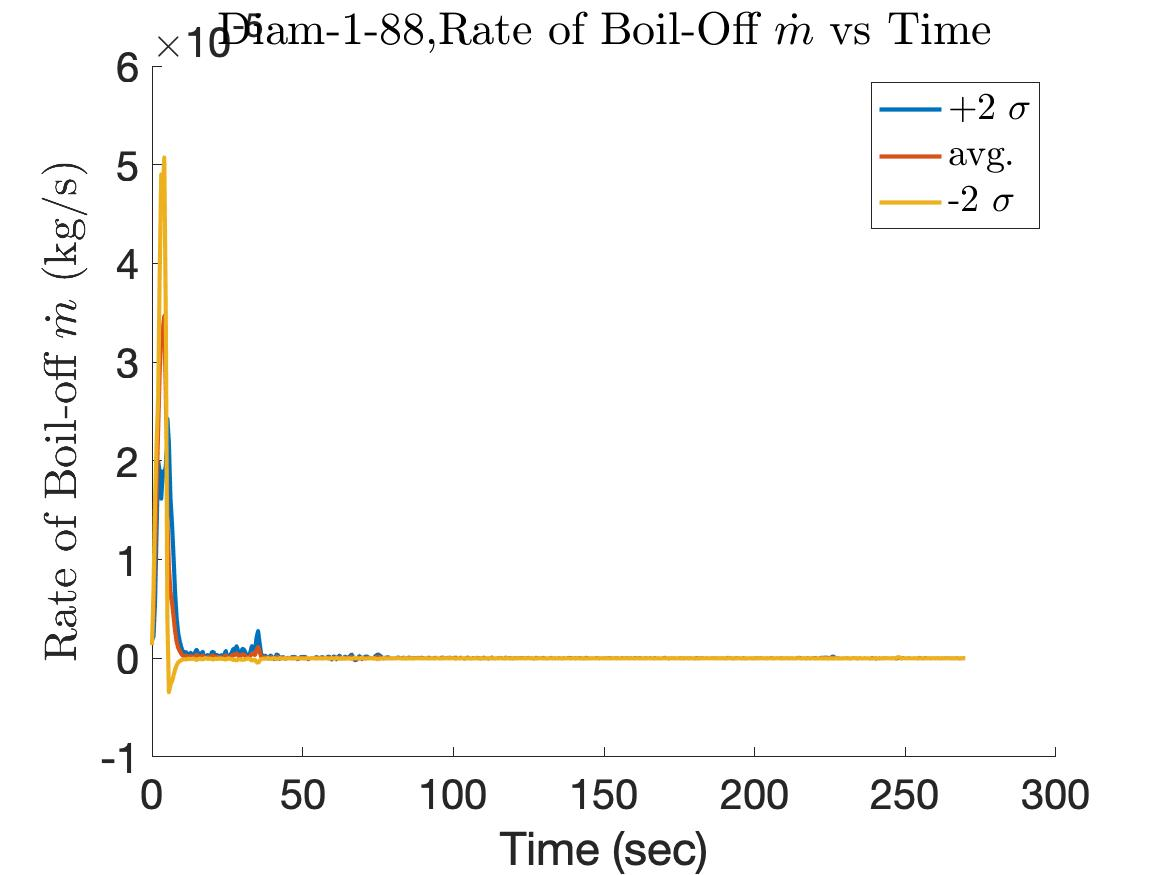
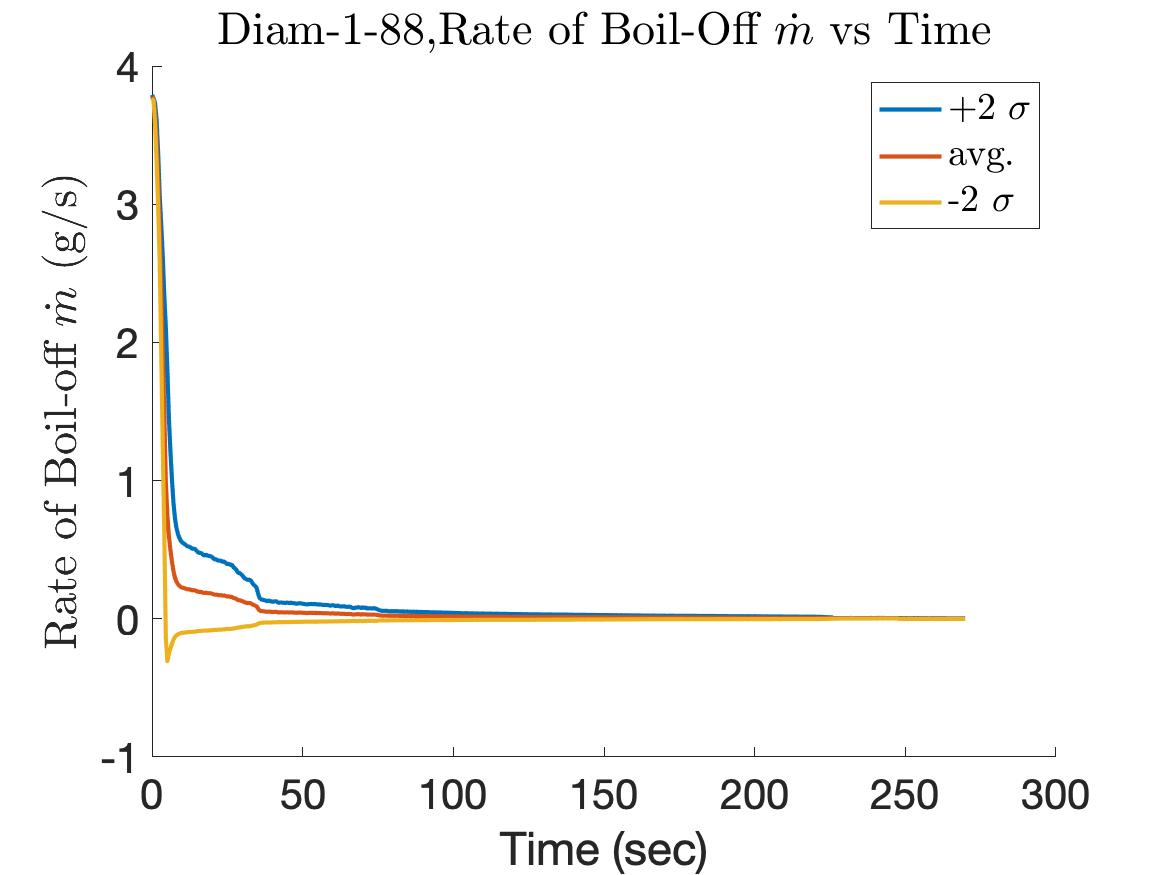
update qdot and mdot plots

Changed region(s): [[0.0308, 0.1234, 0.8329, 0.8023], [0.1234, 0.0309, 0.2159, 0.0617], [0.0925, 0.0617, 0.1234, 0.0926]]

diff --git a/DataAnalysis.m b/DataAnalysis.m
@@ -316,6 +316,8 @@ dt = 0.510204075;
 r = flip([2, 1.875, 1.75, 1.625, 1.5, 1.375]/2,2);
 m = get_spheremass(r);
 Cp = 452; % J/kg C
+
+h = 500;
 for i = 1:6
     Cpm = Cp*m(i);
     tvec = TCell{1,i};
@@ -335,37 +337,55 @@ for i = 1:6
     end
     
     % Average of the three surface Q values:
-    Qavg = sum(TSurf,2)/3*Cpm;
-    Qsigma = std(Qavg); % standard deviation of Q
-    Q1s = sum(T1s,2)/3*Cpm;
-    Q2s = sum(T2s,2)/3*Cpm;
-    Qm1s = sum(Tm1s,2)/3*Cpm;
-    Qm2s = sum(Tm2s,2)/3*Cpm;
+%     Qavg = sum(TSurf,2)/3*Cpm;
+%     Qsigma = std(Qavg); % standard deviation of Q
+%     Q1s = sum(T1s,2)/3*Cpm;
+%     Q2s = sum(T2s,2)/3*Cpm;
+%     Qm1s = sum(Tm1s,2)/3*Cpm;
+%     Qm2s = sum(Tm2s,2)/3*Cpm;
 
-    QCell{1,i} = tvec;
-    QCell{2,i} = Qavg;
-    QCell{3,i} = Qsigma;
-    QCell{4,i} = Q1s;
-    QCell{5,i} = Q2s;
-    QCell{6,i} = Qm1s;
-    QCell{7,i} = Qm2s;
+    if i ~= 5
+        numc = 3;
+    elseif i == 5
+        numc = 2;
+    end
+    
+    Qavg = h*get_SA(r(i))*(sum(TSurf,2)/numc +194);
+    Q1s = h*get_SA(r(i))*(sum(T1s,2)/numc +194);
+    Q2s = h*get_SA(r(i))*(sum(T2s,2)/numc +194);
+    Qm1s = h*get_SA(r(i))*(sum(Tm1s,2)/numc +194);
+    Qm2s = h*get_SA(r(i))*(sum(Tm2s,2)/numc +194);
 
     qdcell{1,i} = tvec;
-    qdcell{2,i} = gradient(Qavg,dt);
-    qdcell{3,i} = std(qdcell{2,i}); % standard deviation of qdot
-    qdcell{4,i} = gradient(Q1s,dt);
-    qdcell{5,i} = gradient(Q2s,dt);
-    qdcell{6,i} = gradient(Qm1s,dt);
-    qdcell{7,i} = gradient(Qm2s,dt);
+    qdcell{2,i} = Qavg;
+    qdcell{3,i} = 0; % DON'T USE THIS VALUE IT IS WRONG AND BAD
+    qdcell{4,i} = Q1s;
+    qdcell{5,i} = Q2s;
+    qdcell{6,i} = Qm1s;
+    qdcell{7,i} = Qm2s;
+    
+%     QCell{1,i} = tvec;
+%     QCell{2,i} = Qavg;
+%     QCell{3,i} = Qsigma;
+%     QCell{4,i} = Q1s;
+%     QCell{5,i} = Q2s;
+%     QCell{6,i} = Qm1s;
+%     QCell{7,i} = Qm2s;
+% 
+%     qdcell{1,i} = tvec;
+%     qdcell{2,i} = gradient(Qavg,dt);
+%     qdcell{3,i} = std(qdcell{2,i}); % standard deviation of qdot
+%     qdcell{4,i} = gradient(Q1s,dt);
+%     qdcell{5,i} = gradient(Q2s,dt);
+%     qdcell{6,i} = gradient(Qm1s,dt);
+%     qdcell{7,i} = gradient(Qm2s,dt);
 
     % Plotting script:
     figure()
     hold on
-    % take negative because heat transfer is out, the heat transfer in is
-    % negative. +2 becomes -2, +1 becomes -1, and so on.
-    plot(qdcell{1,i},-qdcell{7,i},'LineWidth',thiccness) % -2
-    plot(qdcell{1,i},-qdcell{2,i},'LineWidth',thiccness) % avg
-    plot(qdcell{1,i},-qdcell{5,i},'LineWidth',thiccness) % +2
+    plot(qdcell{1,i},qdcell{5,i},'LineWidth',thiccness) % +2
+    plot(qdcell{1,i},qdcell{2,i},'LineWidth',thiccness) % avg
+    plot(qdcell{1,i},qdcell{7,i},'LineWidth',thiccness) % -2
     hold off
 
 
@@ -378,8 +398,8 @@ for i = 1:6
     legend('+2 $$\sigma$$','avg.','-2 $$\sigma$$','Interpreter','latex')
     saveas(gcf,strcat('Qdot-',SizeNames(i),'.jpg'))
         
-    maxval(i) = max(-qdcell{2,i});
-    meanval(i) = mean(-qdcell{2,i});
+    maxval(i) = max(qdcell{2,i});
+    meanval(i) = mean(qdcell{2,i});
 end
 
 
@@ -436,80 +456,80 @@ saveas(gcf,strcat('avgQdot.jpg'))
 close all;
 clc;
 
-MCell = cell(7,6);
+% MCell = cell(7,6);
 mdcell = cell(7,6);
 HV = 199*1000; % KJ/kg = J/g *1000 g/1 kg
 
 
 for i = 1:6
-    MCell{1,i} = QCell{1,i};
+%     MCell{1,i} = QCell{1,i};
     mdcell{1,i} = qdcell{1,i};
     for row = 2:7
-        MCell{row,i} = QCell{row,i}/HV; % unit: kg
-        mdcell{row,i} = qdcell{row,i}/HV; % unit: kg/s
+%         MCell{row,i} = QCell{row,i}/HV; % unit: kg
+        mdcell{row,i} = qdcell{row,i}/HV*10^3; % unit: kg/s * 1000 g/kg
     end
     
-    figure()
-    hold on
-    plot(MCell{1,i},-(MCell{5,i}-MCell{2,i}(1)),'LineWidth',thiccness) % +2
-    plot(MCell{1,i},-(MCell{2,i}-MCell{2,i}(1)),'LineWidth',thiccness) % avg
-    plot(MCell{1,i},-(MCell{7,i}-MCell{2,i}(1)),'LineWidth',thiccness) % -2
-    hold off
-    
-    title(strcat(SizeNames(i), ', Boil-off Mass vs Time'),'Interpreter','latex')
-    xlabel('Time (sec)')
-    ylabel('Boil-off Mass $$m$$ (kg)','Interpreter','latex')
-%     set(gca,'yscale','log')
-    set(gca,'FontSize',20)
-    legend('+2 $$\sigma$$','avg.','-2 $$\sigma$$','Interpreter','latex')
-    saveas(gcf,strcat('M-t-',SizeNames(i),'.jpg'))
+%     figure()
+%     hold on
+%     plot(MCell{1,i},-(MCell{5,i}-MCell{2,i}(1)),'LineWidth',thiccness) % +2
+%     plot(MCell{1,i},-(MCell{2,i}-MCell{2,i}(1)),'LineWidth',thiccness) % avg
+%     plot(MCell{1,i},-(MCell{7,i}-MCell{2,i}(1)),'LineWidth',thiccness) % -2
+%     hold off
+%     
+%     title(strcat(SizeNames(i), ', Boil-off Mass vs Time'),'Interpreter','latex')
+%     xlabel('Time (sec)')
+%     ylabel('Boil-off Mass $$m$$ (kg)','Interpreter','latex')
+% %     set(gca,'yscale','log')
+%     set(gca,'FontSize',20)
+%     legend('+2 $$\sigma$$','avg.','-2 $$\sigma$$','Interpreter','latex')
+%     saveas(gcf,strcat('M-t-',SizeNames(i),'.jpg'))
     
     
     figure()
     hold on
     % negative because mass transfer is out of system, the mass transfer in is
     % negative.
-    plot(mdcell{1,i},-mdcell{5,i},'LineWidth',thiccness) % +2
-    plot(mdcell{1,i},-mdcell{2,i},'LineWidth',thiccness) % avg
-    plot(mdcell{1,i},-mdcell{7,i},'LineWidth',thiccness) % -2
+    plot(mdcell{1,i},mdcell{5,i},'LineWidth',thiccness) % +2
+    plot(mdcell{1,i},mdcell{2,i},'LineWidth',thiccness) % avg
+    plot(mdcell{1,i},mdcell{7,i},'LineWidth',thiccness) % -2
     hold off
 
     title(strcat(SizeNames(i), ',Rate of Boil-Off $$\dot{m}$$ vs Time'),'Interpreter','latex')
     xlabel('Time (sec)')
-    ylabel('Rate of Boil-off $$\dot{m}$$ (kg/s)','Interpreter','latex')
+    ylabel('Rate of Boil-off $$\dot{m}$$ (g/s)','Interpreter','latex')
 %     set(gca,'yscale','log')
     set(gca,'FontSize',20)
     legend('+2 $$\sigma$$','avg.','-2 $$\sigma$$','Interpreter','latex')
     saveas(gcf,strcat('Mdot-',SizeNames(i),'.jpg'))
     
-    maxvalm(i) = max(-(MCell{2,i}-MCell{2,i}(1)));
-    maxvald(i) = max(-mdcell{2,i});
-    meanvald(i) = mean(-mdcell{2,i});
+%     maxvalm(i) = max(-(MCell{2,i}-MCell{2,i}(1)));
+    maxvald(i) = max(mdcell{2,i});
+    meanvald(i) = mean(mdcell{2,i});
 end
 
 figure()
 bar(X,maxvald)
 title('Maximum Boil-off Rate $$\dot{m}$$ vs Sphere Diameter','Interpreter','latex')
 xlabel('Sphere Diameter (in)')
-ylabel('Max. Heat Transfer Rate $$\dot{m}$$ (kg/s)','Interpreter','latex')
+ylabel('Max. Boil-off Rate $$\dot{m}$$ (g/s)','Interpreter','latex')
 set(gca,'FontSize',20)
-saveas(gcf,strcat('maxQdot.jpg'))
+saveas(gcf,strcat('maxmdot.jpg'))
 
 figure()
 bar(X,meanvald)
 title('Average Boil-off Rate $$\dot{m}$$ vs Sphere Diameter','Interpreter','latex')
 xlabel('Sphere Diameter (in)')
-ylabel('Avg. Heat Transfer Rate $$\dot{m}$$ (kg/s)','Interpreter','latex')
+ylabel('Avg. Boil-off Rate $$\dot{m}$$ (g/s)','Interpreter','latex')
 set(gca,'FontSize',20)
 saveas(gcf,strcat('avgmdot.jpg'))
 
-figure()
-bar(X,maxvalm)
-title('Total Boil-off $$m$$ vs Sphere Diameter','Interpreter','latex')
-xlabel('Sphere Diameter (in)')
-ylabel('Total Boil-off $$m$$ (kg)','Interpreter','latex')
-set(gca,'FontSize',20)
-saveas(gcf,strcat('mtot.jpg'))
+% figure()
+% bar(X,maxvalm)
+% title('Total Boil-off $$m$$ vs Sphere Diameter','Interpreter','latex')
+% xlabel('Sphere Diameter (in)')
+% ylabel('Total Boil-off $$m$$ (kg)','Interpreter','latex')
+% set(gca,'FontSize',20)
+% saveas(gcf,strcat('mtot.jpg'))
 
 
 %% Task 5: estimate maximum likelihood values of thermal parameters
@@ -528,6 +548,7 @@ for i = 1:6
     Qdotav = qdcell{2,i};
     Tav = TCell{2,i};
     A = get_SA(r(i));
+    
     
     
     
@@ -589,5 +610,5 @@ function m = get_spheremass(r)
 end
 
 function SA = get_SA(r)
-    SA = 4*pi*r.^2;
+    SA = 4*pi*(r*0.0254).^2;
 end
